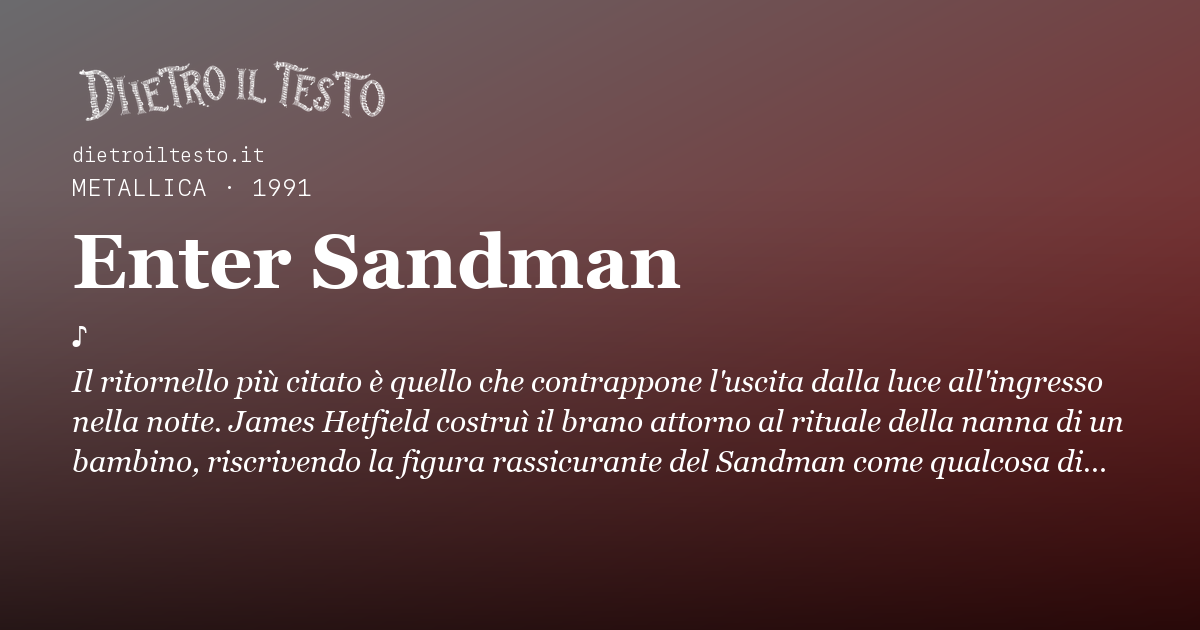
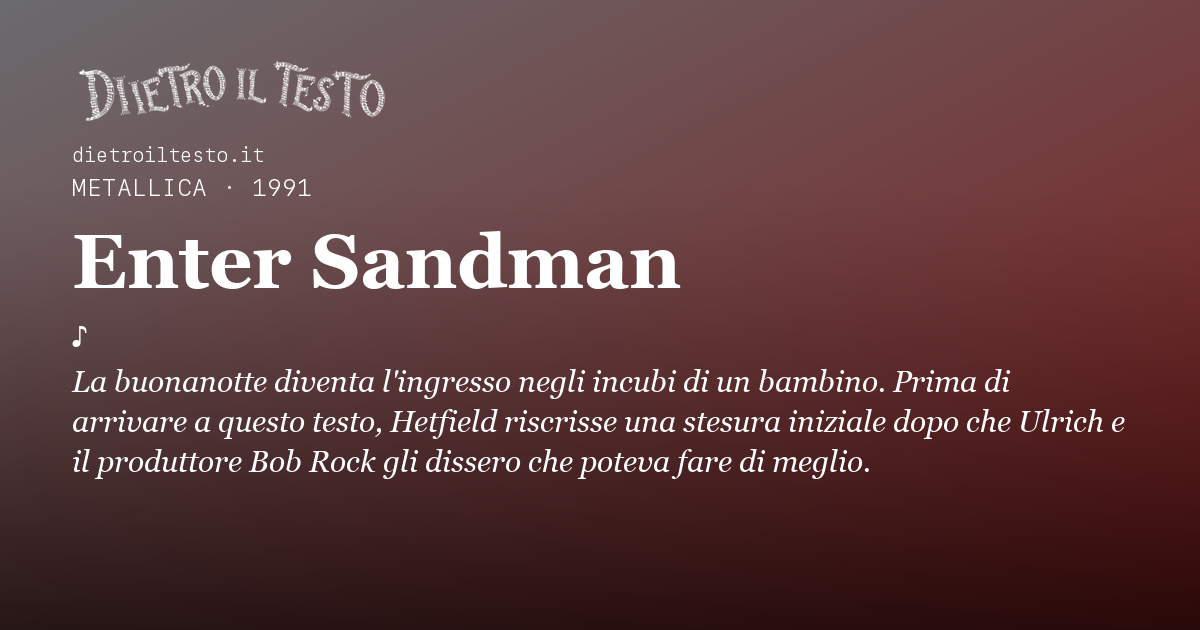
Correggi racconto e fonti di Enter Sandman

Changed region(s): [[0.0617, 0.573, 0.9558, 0.754]]

diff --git a/ROADMAP.md b/ROADMAP.md
@@ -4165,3 +4165,13 @@ Nella copia separata è stata riscritta la frase iconica a livello di funzione d
 Il proprietario ha scritto «applica e procedi» dopo aver visto la proposta del §30. Il commit `c2279c74` è stato integrato con avanzamento diretto in `main` locale. Rigenerato il sito: 26 file pubblicabili sono cambiati, fra cui la pagina della canzone, le anteprime collegate, l'indice di ricerca e le sitemap. Tutti i file del pacchetto generato coincidono byte per byte con quelli della cartella principale. Il file non tracciato `SEO-LASTMOD-2026-09-21.md` conserva lo stesso hash SHA-256 precedente.
 
 **Controlli:** `check-coerenza`, `check-seo`, `check-link`, `check-filtri`, `check-nature` e `git diff --check` passano. La verifica visiva desktop e mobile della pagina e dell'immagine condivisibile è documentata al §30. La modifica è nella cartella principale locale; non è stata inviata a GitHub né pubblicata online. Le correzioni di altre schede e le proposte di immagini restano in copie separate.
+
+## 39. Proposta separata: Enter Sandman, 1 ottobre 2026
+
+Il rapporto indipendente `rapporti/orario/39-enter-sandman.md` segnala che la frase iconica attribuisce la riscrittura del testo al desiderio di attenuarlo e parla di un solo verso cambiato. [American Songwriter](https://americansongwriter.com/behind-the-history-and-meaning-of-the-metallica-song-enter-sandman/) riferisce invece che Ulrich e Bob Rock chiesero a Hetfield un testo migliore, che lui riscrisse; attribuisce inoltre il riff a Kirk Hammett. Il [catalogo ufficiale](https://www.metallica.com/songs/enter-sandman.html) accredita Hammett, Hetfield e Ulrich. La [storia ufficiale del gruppo](https://www.metallica.com/history/) documenta l'album del 1991 e gli arrangiamenti più diretti sotto Rock.
+
+Nella copia separata sono stati corretti corpo e frase iconica senza riprodurre versi o traduzioni. Rimosso il tema `morte-lutto`, pertinente alla stesura scartata e non alla canzone pubblicata. Tolti il conteggio Spotify arrotondato e la fonte Kworb generica che non mostra il dato del brano; tolto anche il dato di vendita dell'album, sul quale le fonti riaperte non concordano. La data di ultima verifica resta assente: questo è un intervento mirato, non una revisione completa.
+
+Rigenerate 687 pagine più 404 e la sola immagine condivisibile di `enter-sandman`, ispezionata senza troncamenti. Pagina controllata nel browser a 1280 e 390 px: frase leggibile, nessuna fuoriuscita orizzontale, nessun errore di console. Passano `check-coerenza`, `check-seo`, `check-link`, `check-attribuzioni --tutte` e `git diff --check`. Restano 30 avvisi informativi preesistenti su altre schede. Catalogo invariato: 317 canzoni, 104 artisti, 251 album.
+
+**Stato:** lotto isolato per revisione del proprietario; nessun trasferimento, push o pubblicazione. Il lettore Spotify e il link esterno al testo non sono stati riverificati. L'archivio JSON andrà integrato per singola voce con gli altri lotti in attesa.
